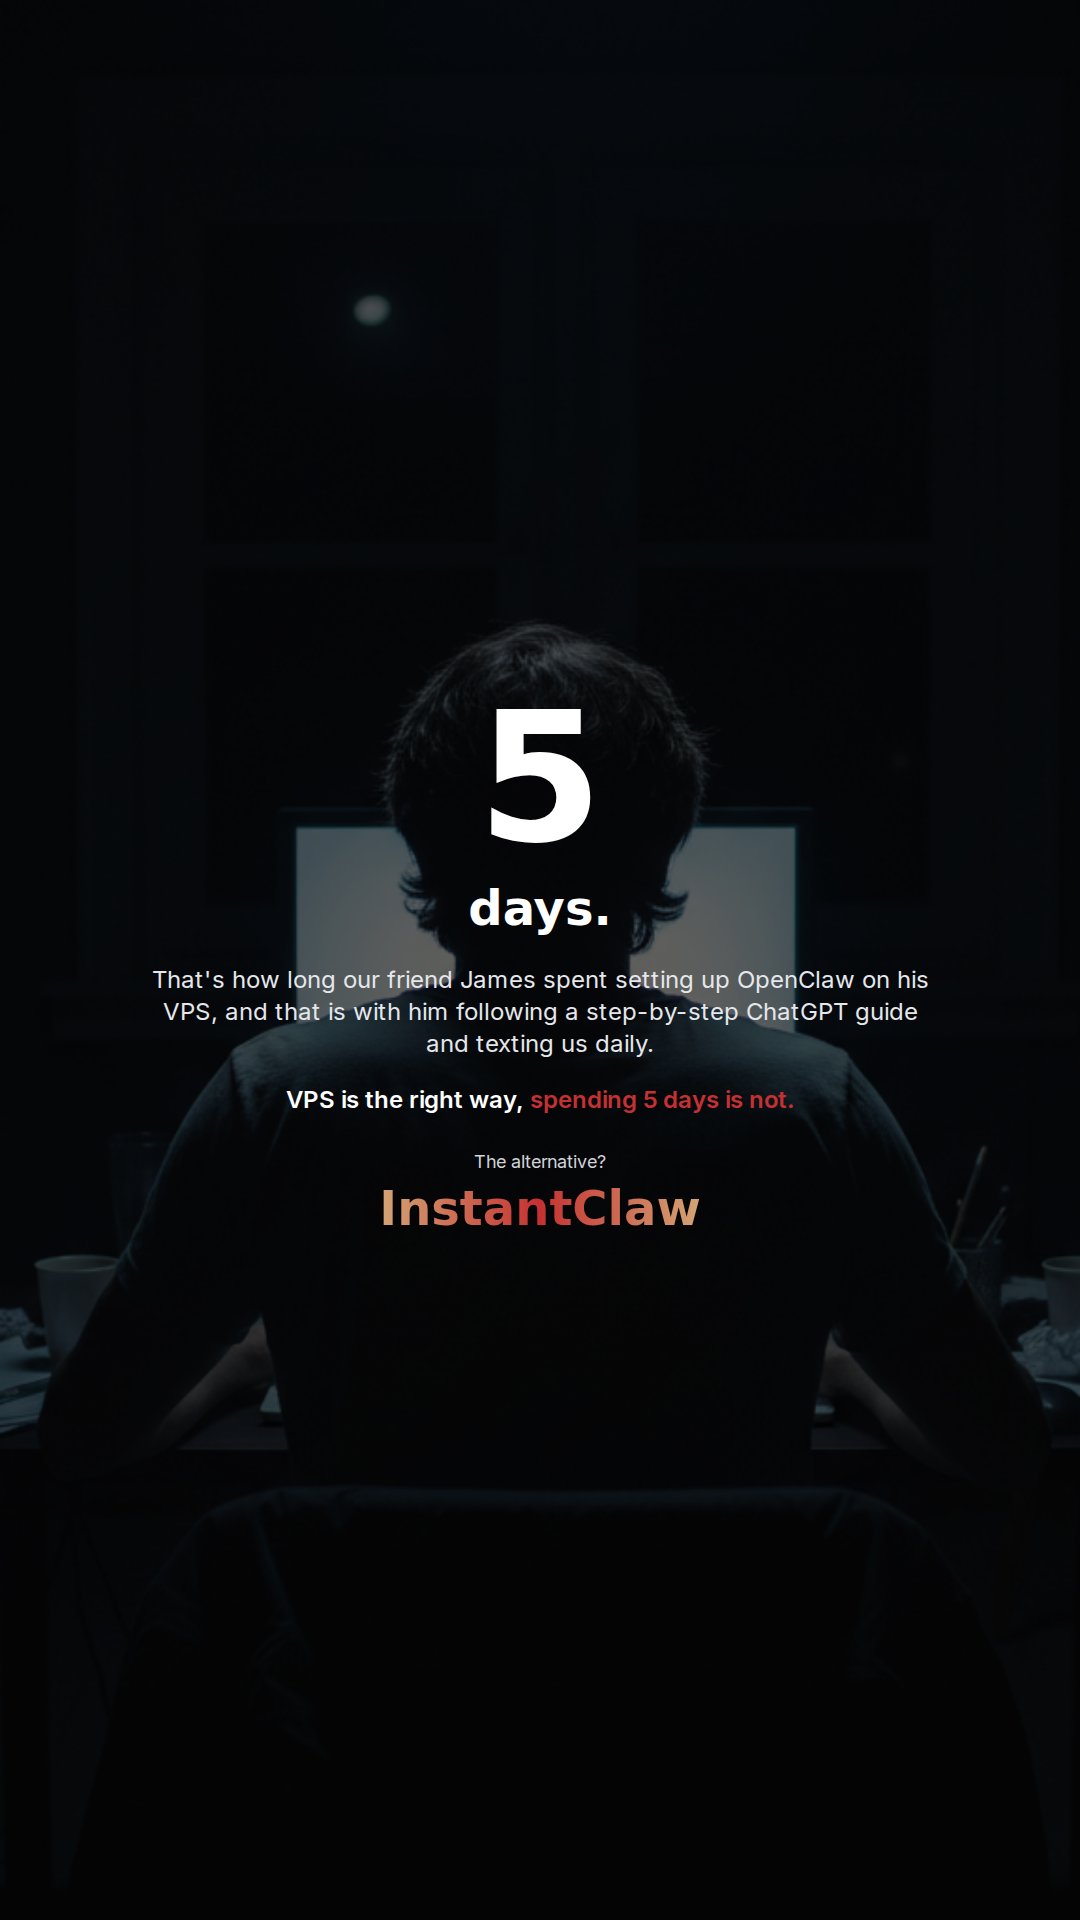
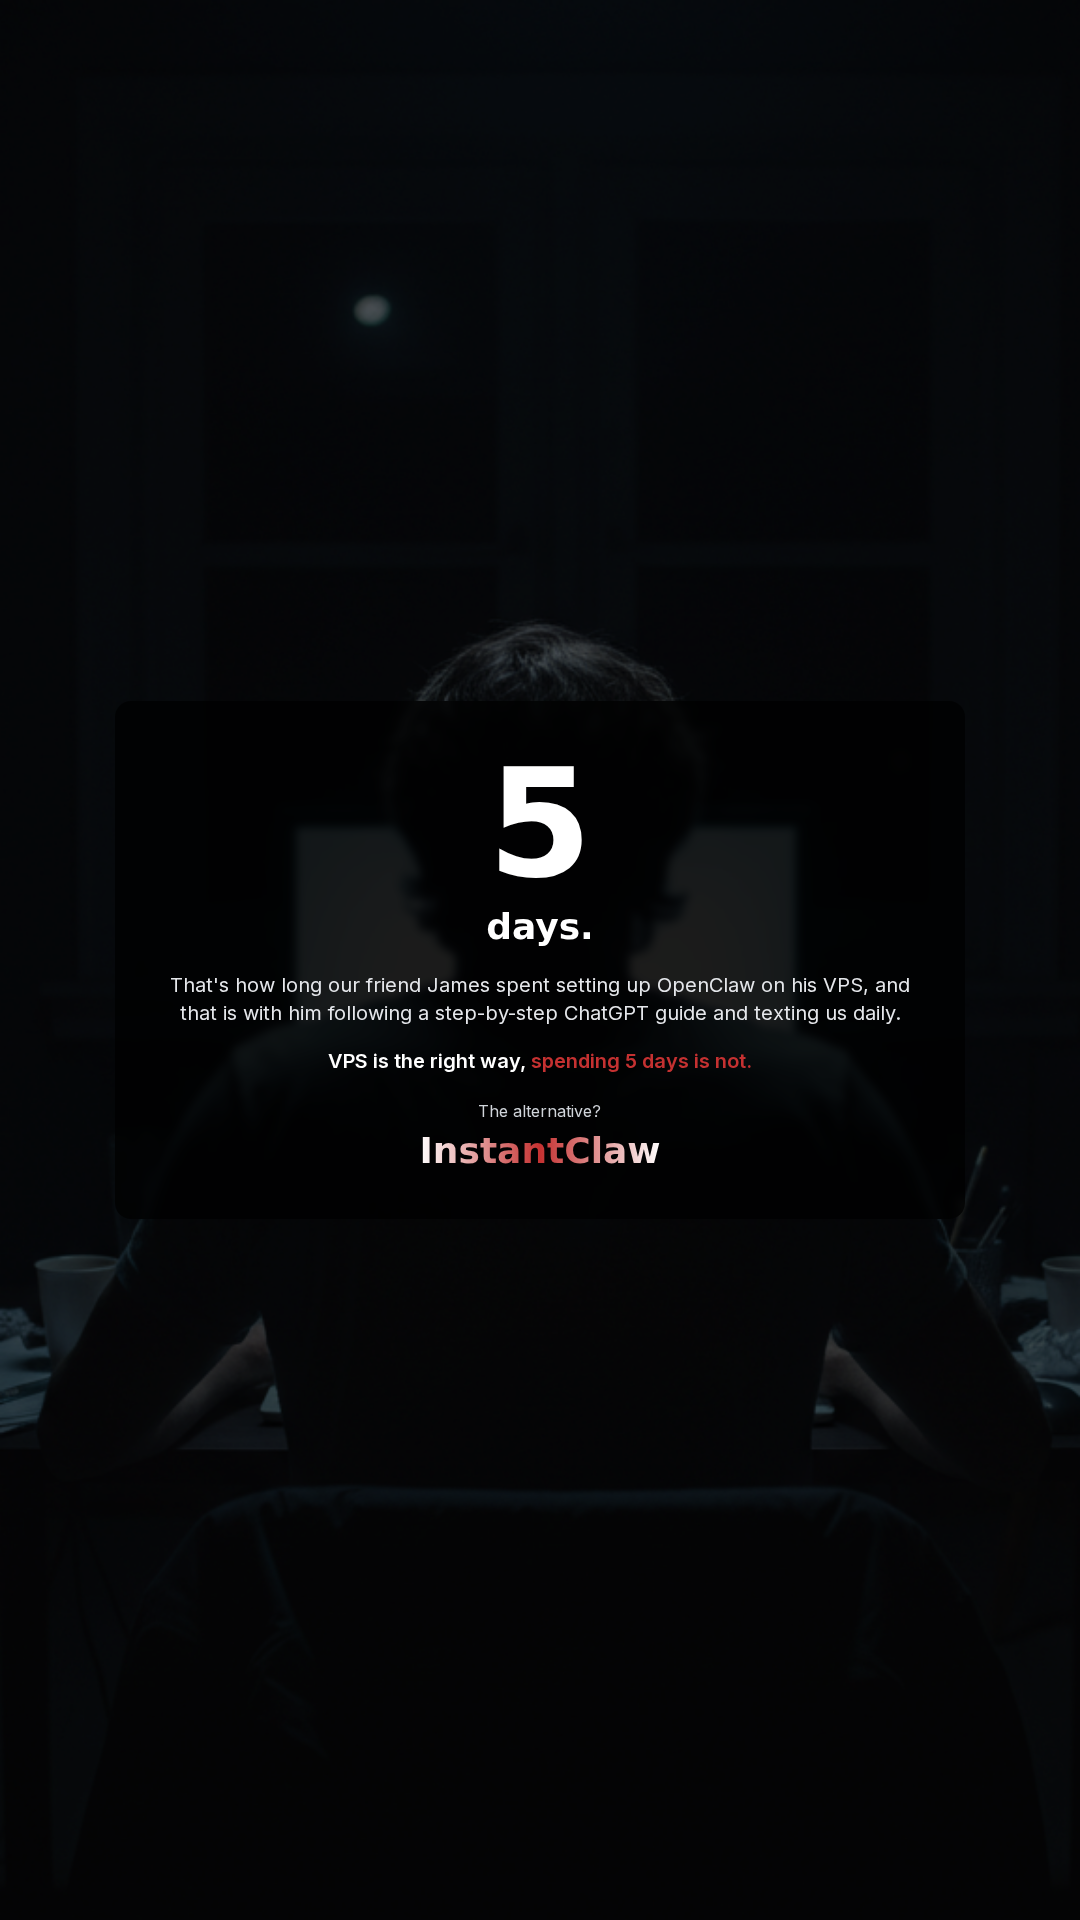
Update Post 6: Add text box background and fix gradient
- Semi-transparent black text box for better readability
- InstantClaw gradient: white → red → gold → white
- Cleaner, more readable layout

Changed region(s): [[0.1528, 0.3438, 0.8556, 0.6562], [0.6111, 0.375, 0.6417, 0.4062]]

diff --git a/pages/post6-story.js b/pages/post6-story.js
@@ -17,31 +17,34 @@ const Post6Story = () => {
       <div className="absolute inset-0 bg-black/60"></div>
 
       {/* Content */}
-      <div className="relative z-10 max-w-[800px] text-center">
-        {/* Big Number */}
-        <h1 className="font-sans text-[120px] md:text-[180px] font-bold text-white leading-none mb-4">
-          5
-        </h1>
-        <h2 className="font-sans text-4xl md:text-5xl font-bold text-white mb-8">
-          days.
-        </h2>
+      <div className="relative z-10 max-w-[850px]">
+        {/* Text Box with Background */}
+        <div className="bg-black/70 backdrop-blur-sm rounded-2xl p-8 md:p-12 text-center">
+          {/* Big Number */}
+          <h1 className="font-sans text-[100px] md:text-[150px] font-bold text-white leading-none mb-2">
+            5
+          </h1>
+          <h2 className="font-sans text-3xl md:text-4xl font-bold text-white mb-6">
+            days.
+          </h2>
 
-        {/* Story Text */}
-        <p className="text-xl md:text-2xl text-gray-200 leading-relaxed mb-6">
-          That's how long our friend James spent setting up OpenClaw on his VPS, and that is with him following a step-by-step ChatGPT guide and texting us daily.
-        </p>
-
-        {/* The Point */}
-        <p className="text-xl md:text-2xl text-white font-semibold leading-relaxed mb-8">
-          VPS is the right way, <span className="text-[#c53131]">spending 5 days is not.</span>
-        </p>
-
-        {/* The Alternative */}
-        <div className="inline-block">
-          <p className="text-lg text-gray-300 mb-2">The alternative?</p>
-          <p className="font-sans text-4xl md:text-5xl font-bold bg-gradient-to-r from-[#D4A574] via-[#c53131] to-[#D4A574] bg-clip-text text-transparent">
-            InstantClaw
+          {/* Story Text */}
+          <p className="text-lg md:text-xl text-gray-200 leading-relaxed mb-5">
+            That's how long our friend James spent setting up OpenClaw on his VPS, and that is with him following a step-by-step ChatGPT guide and texting us daily.
           </p>
+
+          {/* The Point */}
+          <p className="text-lg md:text-xl text-white font-semibold leading-relaxed mb-6">
+            VPS is the right way, <span className="text-[#c53131]">spending 5 days is not.</span>
+          </p>
+
+          {/* The Alternative */}
+          <div className="inline-block">
+            <p className="text-base text-gray-300 mb-2">The alternative?</p>
+            <p className="font-sans text-3xl md:text-4xl font-bold bg-gradient-to-r from-white via-[#c53131] via-[#D4A574] to-white bg-clip-text text-transparent">
+              InstantClaw
+            </p>
+          </div>
         </div>
       </div>
     </div>
